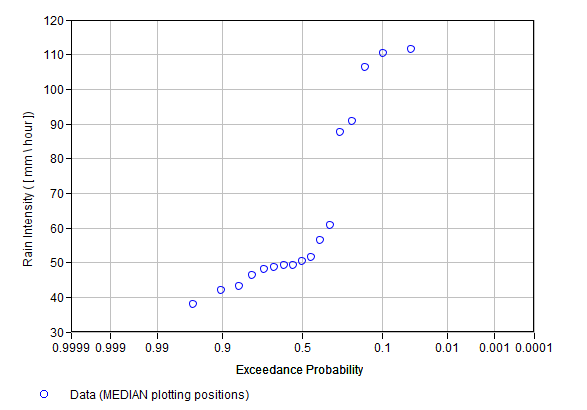
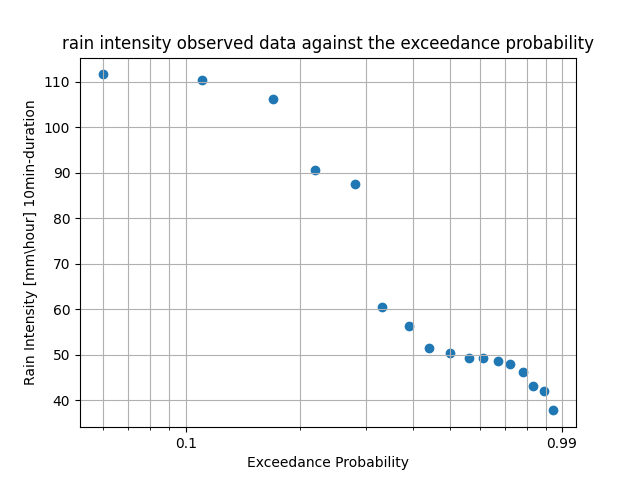
update_first_article

diff --git a/_posts/2024-02-06-rain-data.md b/_posts/2024-02-06-rain-data.md
@@ -10,7 +10,12 @@ image: assets/img/click bait for blog/Hydrology.png
 ---
 Hello, I’m Dor, holding a B.Sc in Water Engineering. I’d like to share a segment of my final project, where I endeavoured to predict the likelihood of intense storms. The data I gathered revealed some intriguing findings.
 For my final project, I utilized the Python programming language to extract rainfall data obtained from the Israeli Meteorological Services API. Throughout Israel, various gauges are strategically placed, and I specifically focused on data from digital gauges all over Israel. The gauges are on average with 20 years of measurements.
-Allow me to present a noteworthy observation (AMS- annual maximum series) from the Tel Aviv Coast gauge data and delve into the statistical analysis derived from the information I collected. I’ll also discuss the connections between these findings and climate change.
+Allow me to present a noteworthy observation (AMS- annual maximum series of the intensity of a 10 minutes duration storm) from the Tel Aviv Coast gauge data and delve into the statistical analysis derived from the information I collected. I’ll also discuss the connections between these findings and climate change.
+
+In _Figure 1_, the Y-axis vividly illustrates the rain intensity measured in millimeters per hour during a concise 10-minute storm event. Meanwhile, the X-axis is dedicated to representing the annual probability of encountering the same or higher intensity event.
+This graph seamlessly introduces us to another significant and closely related concept: the Return Period.
+
+---
 
 ![Figure 1: rain intensity observed data against the exceedance probability](/assets/img/2024-02-06%20article/first_figure.PNG.png) 
 <div style="text-align:center;">
@@ -19,21 +24,16 @@ Allow me to present a noteworthy observation (AMS- annual maximum series) from t
 
 ---
 
-In _Figure 1_, the Y-axis vividly illustrates the rain intensity measured in millimeters per hour during a concise 10-minute storm event. Meanwhile, the X-axis is dedicated to representing the annual probability of encountering the same or higher intensity event. This graph seamlessly introduces us to another significant and closely related concept: the Return Period.
 
- This measure serves as a statistical gauge, estimating the average time between occurrences of a specific magnitude of events or those of a similar or higher intensity. The use of a return period expresses the level of risk and reliability of the system in dealing with extreme events. For example, an engineering structure built according to a flood event that will happen once every 100 years on average will have a probability of failure of 0.01 and hence a reliability of 0.99 (_eq(1)_) [[1]](https://sites.tufts.edu/richardvogel/files/2019/04/2017_riskReliabilityReturnPeriods.pdf).
+ This measure serves as a statistical gauge, estimating the average time between occurrences of a specific magnitude of events or those of a similar or higher intensity. The use of a return period expresses the level of risk and reliability of the system in dealing with extreme events. For example, an engineering structure built according to a flood event that will happen once every 100 years on average will have a probability of failure of 0.01 and hence a reliability of 0.99 (_eq 1_) [[1]](https://sites.tufts.edu/richardvogel/files/2019/04/2017_riskReliabilityReturnPeriods.pdf).
 
-However, it is crucial to remember that the return period is an average expression, signifying that one occurred event every 100 years on average does not eliminate the possibility that the event will not occur again in two or three consecutive years later. In the context of our rainfall example, the Return Period provides valuable insights into how often we can anticipate storms of similar or higher intensity to take place over a given period. For instance, if the graph indicates a 5% probability for a particular rainfall intensity, the corresponding Return Period would be the reciprocal of this probability, suggesting that we can expect such a storm, or even more intense ones, on average, once every 20 years (_eq (2)_).
-
-The visualization of both probability and Return Period allows us to grasp the frequency and potential impact of these events, aiding in informed decision-making for urban planning, infrastructure resilience, and disaster preparedness.
-
-The data spans from 2005 to 2022 and is arranged from the highest to lowest occurrences. Notably, the last five instances of the highest rainfall events transpired within the **last five years**. This raises concerns about what the future may hold in terms of hydrological flood events and climate change.
-
-**eq 1.**
+  **eq 1.**
 
 $$
 \text{Reliability} = 1 - \text{Probability}
 $$
+
+However, it is crucial to remember that the return period is an average expression, signifying that one occurred event every 100 years on average does not eliminate the possibility that the event will occur again in two or three consecutive years later. In the context of our rainfall example, the Return Period provides valuable insights into how often we can anticipate storms of similar or higher intensity to take place over a given period. For instance, if the graph indicates a 5% probability for a particular rainfall intensity, the corresponding Return Period would be the reciprocal of this probability, suggesting that we can expect such a storm, or even more intense ones, on average, once every 20 years (_eq 2_).
 
 **eq 2.**
 
@@ -41,8 +41,41 @@ $$
 \text{Return Period} = \frac{1}{\text{Probability}}
 $$
 
+The visualization of both probability and Return Period allows us to grasp the frequency and potential impact of these events, aiding in informed decision-making for urban planning, infrastructure resilience, and disaster preparedness.
+
+The data spans from 2005 to 2022 and is arranged from the highest to lowest occurrences. Notably, the last five instances of the highest rainfall events transpired within the **last five years** [_Table 1_]. This raises concerns about what the future may hold in terms of hydrological flood events and climate change.
+
+_Table 1: the data over the span of 2005-2022 from (spetember to september for each value) for a 10 min duration storm._
+
+| Rank | Rain Intensity [mm/hour] | Year occurred | Probability | Return Period [years] |
+|------|---------------------------|---------------|-------------|-----------------------|
+| 1    | 111.6                     | 2020-2021     | 6%          | 18                    |
+| 2    | 110.4                     | 2017-2018     | 11%         | 9                     |
+| 3    | 106.2                     | 2019-2020     | 17%         | 6                     |
+| 4    | 90.6                      | 2015-2016     | 22%         | 4.5                   |
+| 5    | 87.6                      | 2014-2015     | 28%         | 3.6                   |
+| 6    | 60.6                      | 2021-2022     | 33%         | 3                     |
+| 7    | 56.4                      | 2010-2011     | 39%         | 2.6          |
+| 8    | 51.6                      | 2005-2006     | 44%         | 2.25                  |
+| 9    | 50.4                      | 2009-2010     | 50%         | 2                     |
+| 10   | 49.2                      | 2006-2007     | 56%         | 1.8                   |
+| 11   | 49.2                      | 2011-2012     | 61%         | 1.6           |
+| 12   | 48.6                      | 2013-2014     | 67%         | 1.5                   |
+| 13   | 48                        | 2008-2009     | 72%         | 1.4           |
+| 14   | 46.2                      | 2018-2019     | 78%         | 1.3           |
+| 15   | 43.2                      | 2007-2008     | 83%         | 1.2                   |
+| 16   | 42                        | 2016-2017     | 89%         | 1.125                 |
+| 17   | 37.8                      | 2012-2013     | 94%         | 1.05          |
+
+
+
+
+
+
+
+
 ## Methodologies And Results
-For the methodology part I will show you what type of tests and tools I used. I used statistical analysis with the data in Python (SciPy), I was trying to find the best fit for this set of the observed data (AMS) I used the function ‘genextreme.fit’ to find out the parameters of the distribution Location, Scale and Shape.
+For the methodology part I will show you what type of tests and tools I used. I used statistical analysis with the data in Python (SciPy), I was trying to find the best fit for this set of the observed data (AMS) I used the function ‘genextreme.fit’ to find out the parameters of the General Extream Value (GEV) distribution Location, Scale and Shape.
 
 input:
 ```python
@@ -59,48 +92,54 @@ Estimated Scale: 49.28
 Estimated Shape: 11.49
 ```
 
-After finding those parameters I plotted the data with the probability density function (_eq 3_) on the top plot of _figure 2_ with the observed rain data on the x-axis and the density of the data on y-axis with the histograms and the PDF in the red line.
-same thing did with normal distribution (_figure 4_). after compering _figure 2.1_ to _figure 4_ it was clear that a better fit for the set of AMS is GEV distribution.
+After finding those parameters I plotted the data with the probability density function (_eq 3_)
 
-the bottom plot is the cumulative density function (in red) with the cumulative probability (_eq 4_) values for the data on the y-axis, and on the x-axis the values are quantiles of the data.
+ **eq 3.** 
 
-In this analysis, I conduct statistical test such as Kolmogorov-Smirnov (KS) which quantifies the maximum absolute distance between the empirical CDF (_eq 6_) to the distribution function that been tested. that test compares the overall fit of distributions. Same method was applied with normal distribution (_figure 3_).
-
-it becomes evident that the most fitting correlation for this dataset is the “Generalized Extreme Value”, with a result of 0.158 in KS test (smaller result means less distance- better fit).
-
-![Figure 2: (1) is the rain data histogram with the fitted GEV distribution (PDF) function. (2) is the GEV distribution CDF with the ECDF of the data for the KS-test result](/assets/img/2024-02-06%20article/figure_two.png) 
-
-<div style="text-align:center;">
-<p style="font-style:italic;">Figure 2: 1. is the rain data histogram with the fitted GEV distribution (PDF) function. 2. is the GEV distribution CDF with the ECDF of the data for the KS-test result</p>
-</div>
-
----
-
-![Figure 3: normal distribution CDF with the ECDF of the data for the KS-test result](/assets/img/2024-02-06%20article/figure_three_normal_vs_ECDF.png) 
-<div style="text-align:center;">
-<p style="font-style:italic;">Figure 3: normal distribution CDF with the ECDF of the data for the KS-test result</p>
-</div>
-
----
-
-![Figure 4: rain data histogram with the fitted normal distribution PDF function](/assets/img/2024-02-06%20article/observred_data_with_fitter_normal_distribution.png) 
-<div style="text-align:center;">
-<p style="font-style:italic;">Figure 4: rain data histogram with the fitted normal distribution (PDF) function</p>
-</div>
-
----
-
-**eq 3.** for $c = \xi$ 
+ for $c = \xi$ 
 
 $$
 \text{}
 f(x,c) = e^{-(1 - cx)^{\frac{1}{c}} (1 - cx)^{\frac{1}{c-1}}}
 $$
 
+$
+\text{Where: } -\infty < x \leq \frac{1}{c} \quad \text{ if }\quad c > 0;  \text{ and }\quad \frac{1}{c} \leq x < \infty \quad\text{ if }\quad c < 0;
+$
 
-$\text{Where: } -\infty < x \leq \frac{1}{c} \quad \text{ if }\quad c > 0;  \text{ and }\quad \frac{1}{c} \leq x < \infty \quad\text{ if }\quad c < 0;$
+
+on _figure 2_ with the observed rain data on the x-axis and the density of the data on y-axis with the histograms and the PDF in the red line.
+
+ ![Figure 2: (1) is the rain data histogram with the fitted GEV distribution (PDF) function. (2) is the GEV distribution CDF with the ECDF of the data for the KS-test result](/assets/img/2024-02-06%20article/Figure_2_but_smaller.png) 
+
+<div style="text-align:center;">
+<p style="font-style:italic;">Figure 2: Is the rain data histogram with the fitted GEV distribution (PDF) function.</p>
+</div>
+
+same thing did with normal distribution (_figure 3_)(_eq 4_).
 
 **eq 4.**
+$$ f(x|\mu,\sigma) = \frac{1}{\sqrt{2\pi}\sigma} \cdot e^{-\frac{(x - \mu)^2}{2\sigma^2}} $$
+
+
+
+![Figure 3: rain data histogram with the fitted normal distribution PDF function](/assets/img/2024-02-06%20article/observred_data_with_fitter_normal_distribution.png) 
+<div style="text-align:center;">
+<p style="font-style:italic;">Figure 3: rain data histogram with the fitted normal distribution (PDF) function</p>
+</div>
+
+ After compering _figure 2_ to _figure 3_ it was clear that a better fit for the set of AMS is GEV distribution.
+
+
+
+_figure 4_ is the Cumulative Density Function (CDF) in red (_eq 5_) with the cumulative probability  values for the data on the y-axis, and on the x-axis the values are quantiles of the data.
+
+![Figure 4: is the GEV distribution CDF with the ECDF of the data for the KS-test result](/assets/img/2024-02-06%20article/Figure_4_but_smaller.png) 
+<div style="text-align:center;">
+<p style="font-style:italic;">Figure 4: is the GEV distribution CDF with the ECDF of the data for the KS-test result</p>
+</div>
+
+**eq 5.**
 
 $$F(x; \mu, \sigma, \xi) = e^{ \left( -1 + \xi \left( \frac{x - \mu}{\sigma} \right) \right)^{\frac{-1}{\xi}} } \quad \text{for} \quad \xi \neq 0$$
 
@@ -120,11 +159,7 @@ $
 \xi \text{ is the shape parameter}
 $
 
-**eq 5.**
-
-$$\frac{1}{n}$$
-
-Where $n$ is the number of observations
+In this analysis, I conduct statistical test such as Kolmogorov-Smirnov (KS) which quantifies the maximum absolute distance between the empirical CDF (_eq 6_)
 
 **eq. 6**
 
@@ -138,66 +173,85 @@ Where: $S(x_i)$ is the empirical distribution function (EDF) at the
 $$S(x) = \frac{\text{Number of data points} \leq x}{\text{total number of data points}}
 \text{}\\$$
 
-Where: $F(x_i)$ is the theoretical cumulative distribution function (CDF) $i\text{-th data point}$ for the GEV function (eq 4)
+Where: $F(x_i)$ is the theoretical cumulative distribution function (CDF) $i\text{-th data point}$
+
+ of the GEV function (_eq 3_) to the distribution function that been tested. That test compares the overall fit of distributions. Same method was applied with normal distribution (_figure 5_).
+
+ ![Figure 5: normal distribution CDF with the ECDF of the data for the KS-test result](/assets/img/2024-02-06%20article/figure_three_normal_vs_ECDF.png) 
+<div style="text-align:center;">
+<p style="font-style:italic;">Figure 5: normal distribution CDF with the ECDF of the data for the KS-test result</p>
+</div>
+
+It becomes evident that the most fitting correlation for this dataset is the **“Generalized Extreme Value”**, with a result of **0.158** in KS test (smaller result means less distance- better fit).
+
+
+
+
+
+
+
+
 
 
 ---
 
-I wanted to make more analyzing to the data, so I downloaded HEC-SSP (Hydrologic Engineering Center-Statistical software program), with that software I was able to see that on a product moment fitting method, the KS value was 0.184 for exponential distribution. (_Table 1_)
+I wanted to conduct further analysis to the data, so I downloaded HEC-SSP (Hydrologic Engineering Center-Statistical software program), with that software I was able to see that on a product moment fitting method, the KS value was 0.184 for exponential distribution. (_Table 1_)
 
 
 
 
 
 
-**_Table 1:_** Log results from the HEC-SSP analysis
+**_Table 1:_** Log results from the HEC-SSP analysis:
 
-|              Distribution              |                                     Parameter                                      |   Kolmogorov-Smirnov    |
-|                                        |                                                                                   |     (Test Statistic)    |
-|----------------------------------------|-----------------------------------------------------------------------------------|-------------------------|
-|           Pearson III (PM)             |                    Mean=64.094 ,StDv=25.888 ,Skew=1.018                            |         0.227           |
-|              Gumbel (PM)               |                         Loctn=52.443 ,Scale=20.185                                 |         0.236           |
-|          Shifted Gamma (PM)            |                  Shape=3.857 ,Scale=13.181 ,Shift=13.250                            |         0.227           |
-|       Generalized Pareto (PM)          |                  Loctn=32.119 ,Scale=40.378 ,Shape=0.263                            |         0.185           |
-|            Empirical (PM)              |                                User-defined                                        |          NaN            |
-|              Normal (PM)               |                          Mean=64.094 ,StDv=25.888                                   |         0.274           |
-|       Generalized Logistic (PM)        |                      Loctn=NaN ,Scale=NaN ,Shape=NaN                                 |          NaN            |
-|            Triangular (PM)             |                  Left=27.483 ,Peak=27.483 ,Right=137.317                            |         0.197           |
-|              Uniform (PM)              |                         Left=19.255 ,Right=108.934                                  |         0.245           |
-|               Beta (PM)                |                           Shape0=NaN ,Shape1=NaN                                    |          NaN            |
-|               Gamma (PM)               |                         Shape=6.130 ,Scale=10.456                                    |         0.237           |
-|            Exponential (PM)            |                                Scale=64.094                                          |         0.446           |
-|     Generalized Extreme Value (PM)     |                  Loctn=52.552 ,Scale=20.735 ,Shape=0.021                            |         0.237           |
-|           Log-Logistic (PM)            |                         Scale=59.913 ,Shape=4.956                                    |         0.265           |
-|             Ln-Normal (PM)             |                         MeanLn=4.093 ,StDvLn=0.366                                   |         0.247           |
-|             Logistic (PM)              |                         Loctn=64.094 ,Scale=14.273                                   |         0.294           |
-|        Shifted Exponential (PM)        |                         Scale=25.888 ,Shift=38.206                                   |         0.184           |
-|          Log-Pearson III (PM)          |                  MeanLog=1.778 ,StDvLog=0.159 ,Skew=0.785                            |         0.206           |
-|        4 Parameter Beta (PM)           |                Shape0=NaN ,Shape1=NaN ,Left=NaN ,Right=NaN                           |          NaN            |
-|          Log10-Normal (PM)             |                        MeanLog=1.778 ,StDvLog=0.159                                  |         0.247           |
-|----------------------------------------|-----------------------------------------------------------------------------------|-------------------------|
+| Distribution                        | Parameter                                                                        | Kolmogorov-Smirnov (Test Statistic) |
+|-------------------------------------|----------------------------------------------------------------------------------|--------------------------------------|
+| Pearson III (PM)                   | Mean=64.094, StDv=25.888, Skew=1.018                                             | 0.227                                |
+| Gumbel (PM)                        | Loctn=52.443, Scale=20.185                                                       | 0.236                                |
+| Shifted Gamma (PM)                 | Shape=3.857, Scale=13.181, Shift=13.250                                           | 0.227                                |
+| Generalized Pareto (PM)           | Loctn=32.119, Scale=40.378, Shape=0.263                                           | 0.185                                |
+| Empirical (PM)                     | User-defined                                                                     | NaN                                  |
+| Normal (PM)                        | Mean=64.094, StDv=25.888                                                          | 0.274                                |
+| Generalized Logistic (PM)         | Loctn=NaN, Scale=NaN, Shape=NaN                                                   | NaN                                  |
+| Triangular (PM)                    | Left=27.483, Peak=27.483, Right=137.317                                           | 0.197                                |
+| Uniform (PM)                       | Left=19.255, Right=108.934                                                        | 0.245                                |
+| Beta (PM)                          | Shape0=NaN, Shape1=NaN                                                            | NaN                                  |
+| Gamma (PM)                         | Shape=6.130, Scale=10.456                                                         | 0.237                                |
+| Exponential (PM)                   | Scale=64.094                                                                      | 0.446                                |
+| Generalized Extreme Value (PM)    | Loctn=52.552, Scale=20.735, Shape=0.021                                           | 0.237                                |
+| Log-Logistic (PM)                  | Scale=59.913, Shape=4.956                                                         | 0.265                                |
+| Ln-Normal (PM)                     | MeanLn=4.093, StDvLn=0.366                                                         | 0.247                                |
+| Logistic (PM)                      | Loctn=64.094, Scale=14.273                                                         | 0.294                                |
+| Shifted Exponential (PM)           | Scale=25.888, Shift=38.206                                                         | 0.184                                |
+| Log-Pearson III (PM)               | MeanLog=1.778, StDvLog=0.159, Skew=0.785                                           | 0.206                                |
+| 4 Parameter Beta (PM)              | Shape0=NaN, Shape1=NaN, Left=NaN, Right=NaN                                       | NaN                                  |
+| Log10-Normal (PM)                  | MeanLog=1.778, StDvLog=0.159                                                       | 0.247                                |
 
----
-The best KS result from the analysis:
+
+
+
+
+
+
 
 Selected Distribution: **Shifted Exponential (PM)**
 
 |                               Parameter                               |
 |-----------------------------------------------------------------------|
 |                   Scale=25.888136 ,Shift=38.205982                     |
-|-----------------------------------------------------------------------|
+
 
 
 |   Kolmogorov-Smirnov    |
 |-------------------------|
 |            0.184         |
-|-------------------------|
+
 
 
 
 ---
 ## Conclusions
-As we delve into the intricate patterns of hydrological events, it’s impossible to ignore the broader context of our changing climate. The rising average temperatures, evident in recent years, play a crucial role in shaping the dynamics of our hydrological systems. The results between the data presented here to the fitting distributions, showcasing short but intense storms with high precipitation rates, and the escalating temperatures is a stark reminder of the intricate dance between atmospheric conditions and hydrological responses.
+As we delve into the intricate patterns of hydrological events, it’s impossible to ignore the broader context of our changing climate. The rising average temperatures, evident in recent years, play a crucial role in shaping the dynamics of our hydrological systems. The results between the data presented here to the fitting distributions, showcasing short but intense storms with high precipitation rates, and the escalating temperatures is a stark reminder of the intricate dance between atmospheric conditions and hydrological responses [[2]](https://rdcu.be/dyjKW).
 The warming trend observed in our climate amplifies the risk of extreme weather events, exemplified by the surge in high-intensity rainfall occurrences in the last 5-years. This calls for a heightened awareness of the potential consequences that await us in the future. As we navigate these challenges, understanding the interconnectedness of rising temperatures, shifting weather patterns, and hydrological events becomes paramount.
 In essence, the data serves not only as a record of the past but as a compass guiding us toward informed decisions for a more resilient future. It is our collective responsibility to address the implications of climate change and strive for a harmonious coexistence with our ever-evolving environment. On my next posts, I will look at some of the temperature data and the correlation with extreme rain events.
 
@@ -208,4 +262,4 @@ In essence, the data serves not only as a record of the past but as a compass gu
 ### Citations
 [[1]](https://sites.tufts.edu/richardvogel/files/2019/04/2017_riskReliabilityReturnPeriods.pdf) Vogel, Richard M., and Attilio Castellarin. "Risk, reliability, and return periods and hydrologic design." Handbook of applied hydrology (2nd ed.)(pp. 78.1-78.10). New York, USA: McGraw-Hill Education (2017).
 
-
+[[2]](https://rdcu.be/dyjKW) Volosciuk, C., Maraun, D., Semenov, V. et al. Rising Mediterranean Sea Surface Temperatures Amplify Extreme Summer Precipitation in Central Europe. Sci Rep 6, 32450 (2016). https://doi.org/10.1038/srep32450
